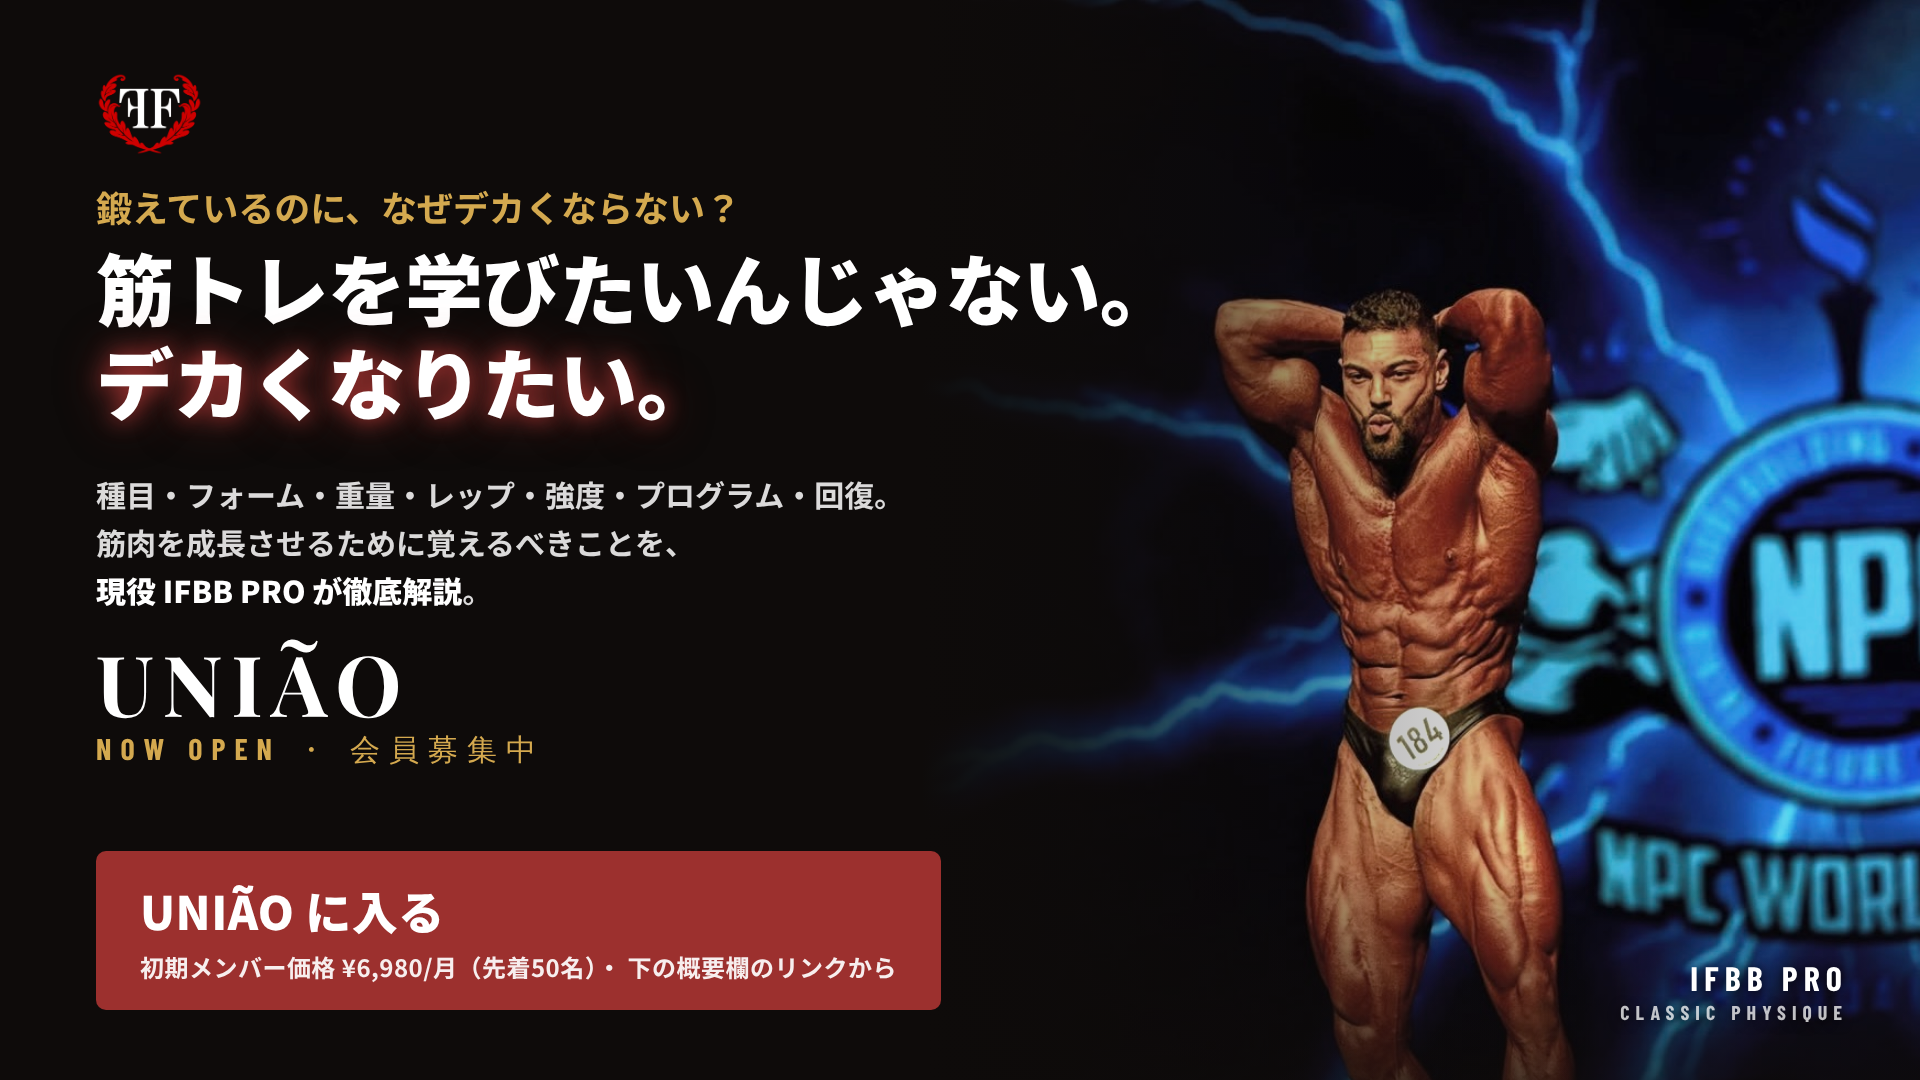
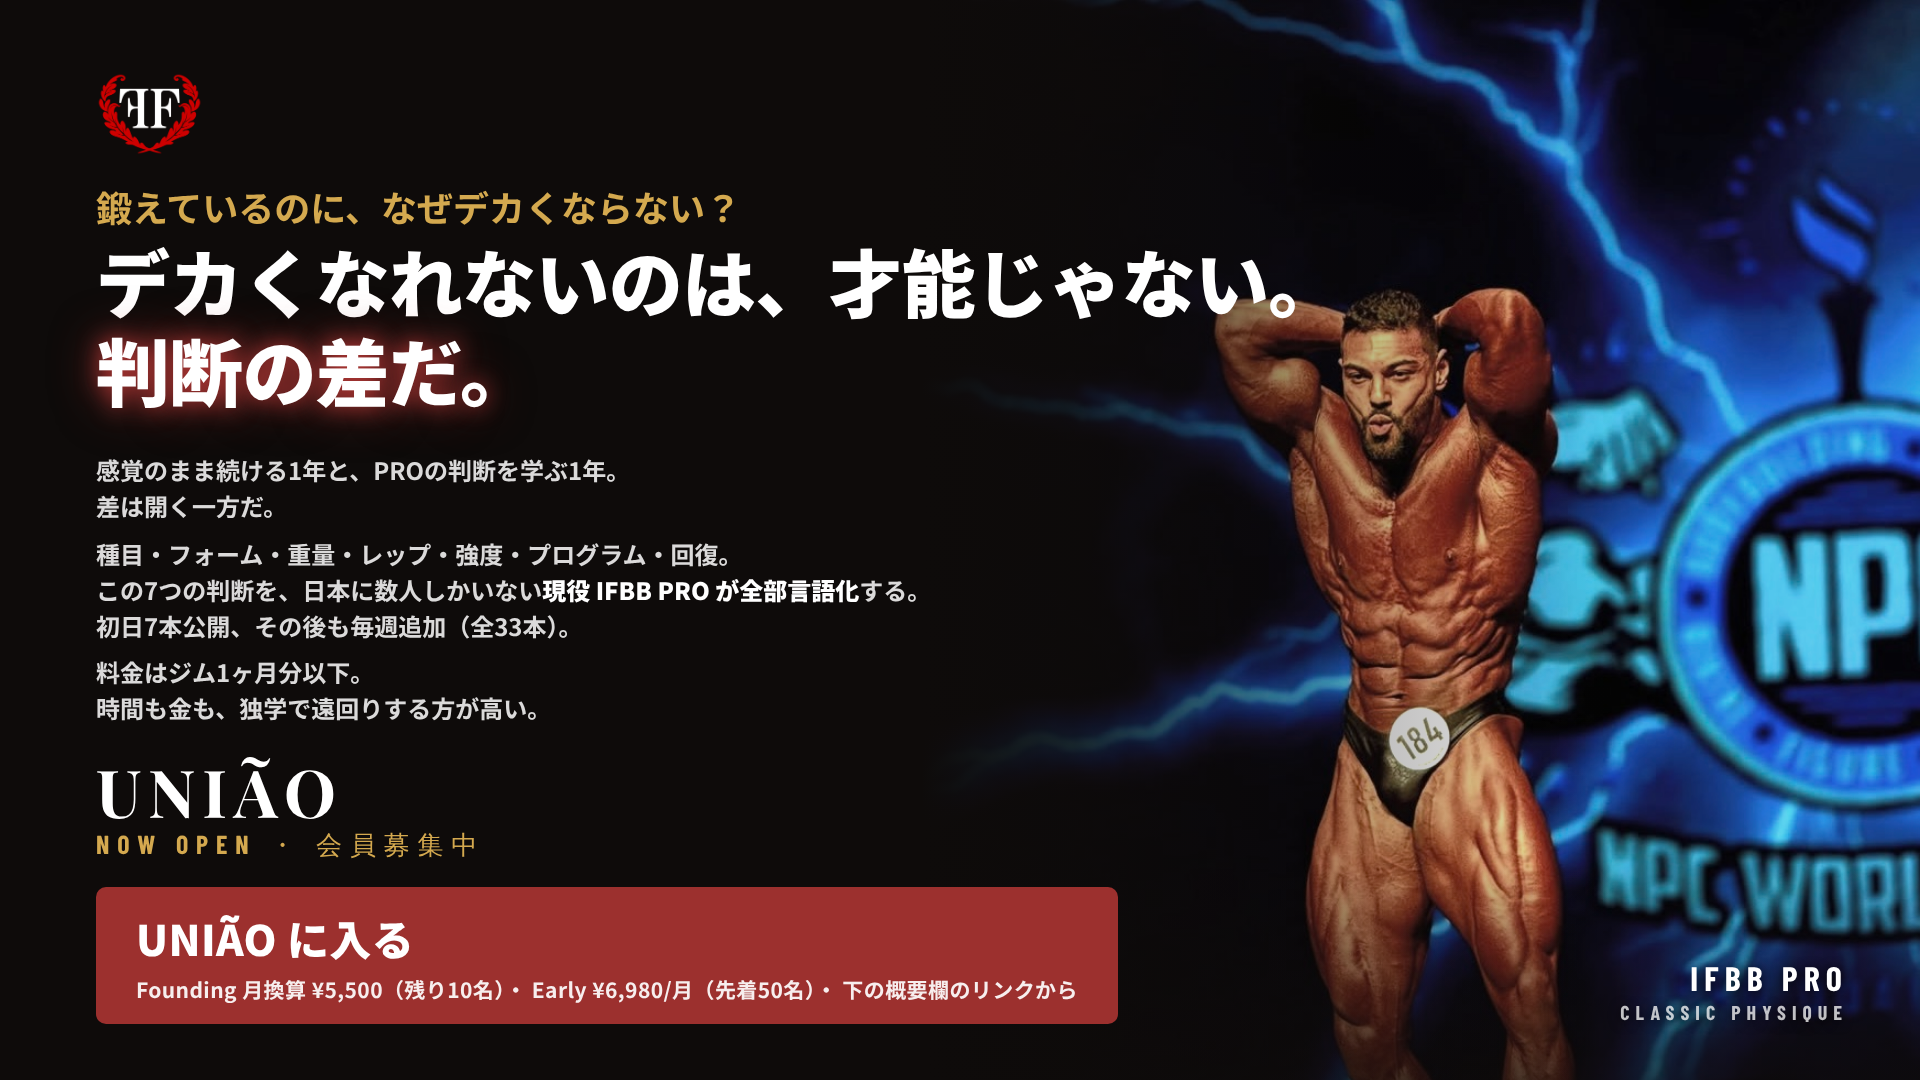
CM slide: new copy (judgement, 7 decisions, pricing) (#151)
* Add UPPER DAY YouTube thumbnails (part 1, 2) and the series thumbnail template

Claude-Session: https://claude.ai/code/session_01HRty6kL8VRnpLHHHzSF3iS

* UPPER DAY thumbnails: reframe to keep the face visible and hide the burned-in caption

Claude-Session: https://claude.ai/code/session_01HRty6kL8VRnpLHHHzSF3iS

* UPPER DAY thumbnails v2: loud yellow/red creator style, distinct from the community look

Claude-Session: https://claude.ai/code/session_01HRty6kL8VRnpLHHHzSF3iS

* UPPER DAY thumbnails v3: competition roar photo plus gym face chip

Claude-Session: https://claude.ai/code/session_01HRty6kL8VRnpLHHHzSF3iS

* UPPER DAY thumbnails: soften hook to Felipe's voice

Claude-Session: https://claude.ai/code/session_01HRty6kL8VRnpLHHHzSF3iS

* UPPER DAY thumbnails: keep the hook line on one row

Claude-Session: https://claude.ai/code/session_01HRty6kL8VRnpLHHHzSF3iS

* UPPER DAY thumbnails: hook label on one line

Claude-Session: https://claude.ai/code/session_01HRty6kL8VRnpLHHHzSF3iS

* UPPER DAY thumbnails on the brand guide: FF black base, white type, laurel red as the single accent, gym press photo; add visual identity PDF

Claude-Session: https://claude.ai/code/session_01HRty6kL8VRnpLHHHzSF3iS

* UPPER DAY thumbnail: three promise-led headline variants on the brand template

Claude-Session: https://claude.ai/code/session_01HRty6kL8VRnpLHHHzSF3iS

* Add post-live story images (thanks + next live 11/23) and story template
[…]

Changed region(s): [[0.0312, 0.4278, 0.5938, 0.9472], [0.0312, 0.2139, 0.6875, 0.3972]]

diff --git a/assets/yt/cm-open-template.html b/assets/yt/cm-open-template.html
@@ -9,15 +9,16 @@ body{font-family:"NS",sans-serif;color:#fff;position:relative}
 .fade{position:absolute;inset:0;background:linear-gradient(90deg,#0E0B0A 0%,#0E0B0A 48%,rgba(14,11,10,.85) 56%,rgba(14,11,10,.25) 70%,rgba(14,11,10,0) 84%),linear-gradient(180deg,rgba(14,11,10,0) 80%,rgba(14,11,10,.7) 100%)}
 .logo{position:absolute;left:96px;top:72px;height:84px}
 .q{position:absolute;left:96px;top:180px;font-size:36px;font-weight:700;color:#D4A94F}
-.h{position:absolute;left:96px;top:240px;font-size:78px;font-weight:900;line-height:1.2;letter-spacing:-.01em;white-space:nowrap}
+.h{position:absolute;left:96px;top:236px;font-size:74px;font-weight:900;line-height:1.2;letter-spacing:-.01em;white-space:nowrap}
 .h em{font-style:normal;color:#fff;text-shadow:0 0 22px rgba(185,58,56,.95),0 0 48px rgba(185,58,56,.6)}
-.p{position:absolute;left:96px;top:470px;font-size:30px;font-weight:700;line-height:1.6;color:rgba(255,255,255,.85);width:960px}
+.p{position:absolute;left:96px;top:452px;font-size:24px;font-weight:700;line-height:1.5;color:rgba(255,255,255,.85);width:1000px}
+.p+.p{top:536px}.p+.p+.p{top:654px}
 .p b{color:#fff}
-.brand{position:absolute;left:96px;top:640px}
-.brand .m{font-family:"PF",serif;font-size:84px;letter-spacing:.1em;line-height:1}
-.brand .s{font-family:"BC",sans-serif;font-size:30px;letter-spacing:.3em;color:#D4A94F;margin-top:6px}
-.cta{position:absolute;left:96px;bottom:70px;background:#9C302E;color:#fff;font-size:46px;font-weight:900;padding:26px 44px;border-radius:10px;letter-spacing:.01em}
-.cta small{display:block;font-size:24px;font-weight:700;opacity:.92;margin-top:6px;letter-spacing:.02em}
+.brand{position:absolute;left:96px;top:758px}
+.brand .m{font-family:"PF",serif;font-size:66px;letter-spacing:.1em;line-height:1}
+.brand .s{font-family:"BC",sans-serif;font-size:26px;letter-spacing:.3em;color:#D4A94F;margin-top:4px}
+.cta{position:absolute;left:96px;bottom:56px;background:#9C302E;color:#fff;font-size:42px;font-weight:900;padding:20px 40px;border-radius:10px;letter-spacing:.01em}
+.cta small{display:block;font-size:21px;white-space:nowrap;font-weight:700;opacity:.92;margin-top:6px;letter-spacing:.02em}
 .url{display:none}
 .pro{position:absolute;right:72px;bottom:56px;text-align:right;font-family:"BC",sans-serif;font-size:34px;letter-spacing:.18em;color:#fff;text-shadow:0 2px 12px rgba(0,0,0,.9)}
 .pro small{display:block;font-size:20px;letter-spacing:.3em;color:rgba(255,255,255,.75);margin-top:2px}
@@ -25,10 +26,12 @@ body{font-family:"NS",sans-serif;color:#fff;position:relative}
 <div class="bg"></div><div class="fade"></div>
 <img class="logo" src="logo.png" alt="">
 <p class="q">鍛えているのに、なぜデカくならない？</p>
-<p class="h">筋トレを学びたいんじゃない。<br><em>デカくなりたい。</em></p>
-<p class="p">種目・フォーム・重量・レップ・強度・プログラム・回復。<br>筋肉を成長させるために覚えるべきことを、<br><b>現役 IFBB PRO が徹底解説</b>。</p>
+<p class="h">デカくなれないのは、才能じゃない。<br><em>判断の差だ。</em></p>
+<p class="p">感覚のまま続ける1年と、PROの判断を学ぶ1年。<br>差は開く一方だ。</p>
+<p class="p">種目・フォーム・重量・レップ・強度・プログラム・回復。<br>この7つの判断を、日本に数人しかいない<b>現役 IFBB PRO が全部言語化</b>する。<br>初日7本公開、その後も毎週追加（全33本）。</p>
+<p class="p">料金はジム1ヶ月分以下。<br>時間も金も、独学で遠回りする方が高い。</p>
 <div class="brand"><p class="m">UNIÃO</p><p class="s">NOW OPEN ・ 会員募集中</p></div>
-<div class="cta">UNIÃO に入る<small>初期メンバー価格 ¥6,980/月（先着50名）・ 下の概要欄のリンクから</small></div>
+<div class="cta">UNIÃO に入る<small>Founding 月換算 ¥5,500（残り10名）・ Early ¥6,980/月（先着50名）・ 下の概要欄のリンクから</small></div>
 <p class="url">ff-uniao.netlify.app</p>
 <p class="pro">IFBB PRO<small>CLASSIC PHYSIQUE</small></p>
 </body></html>
